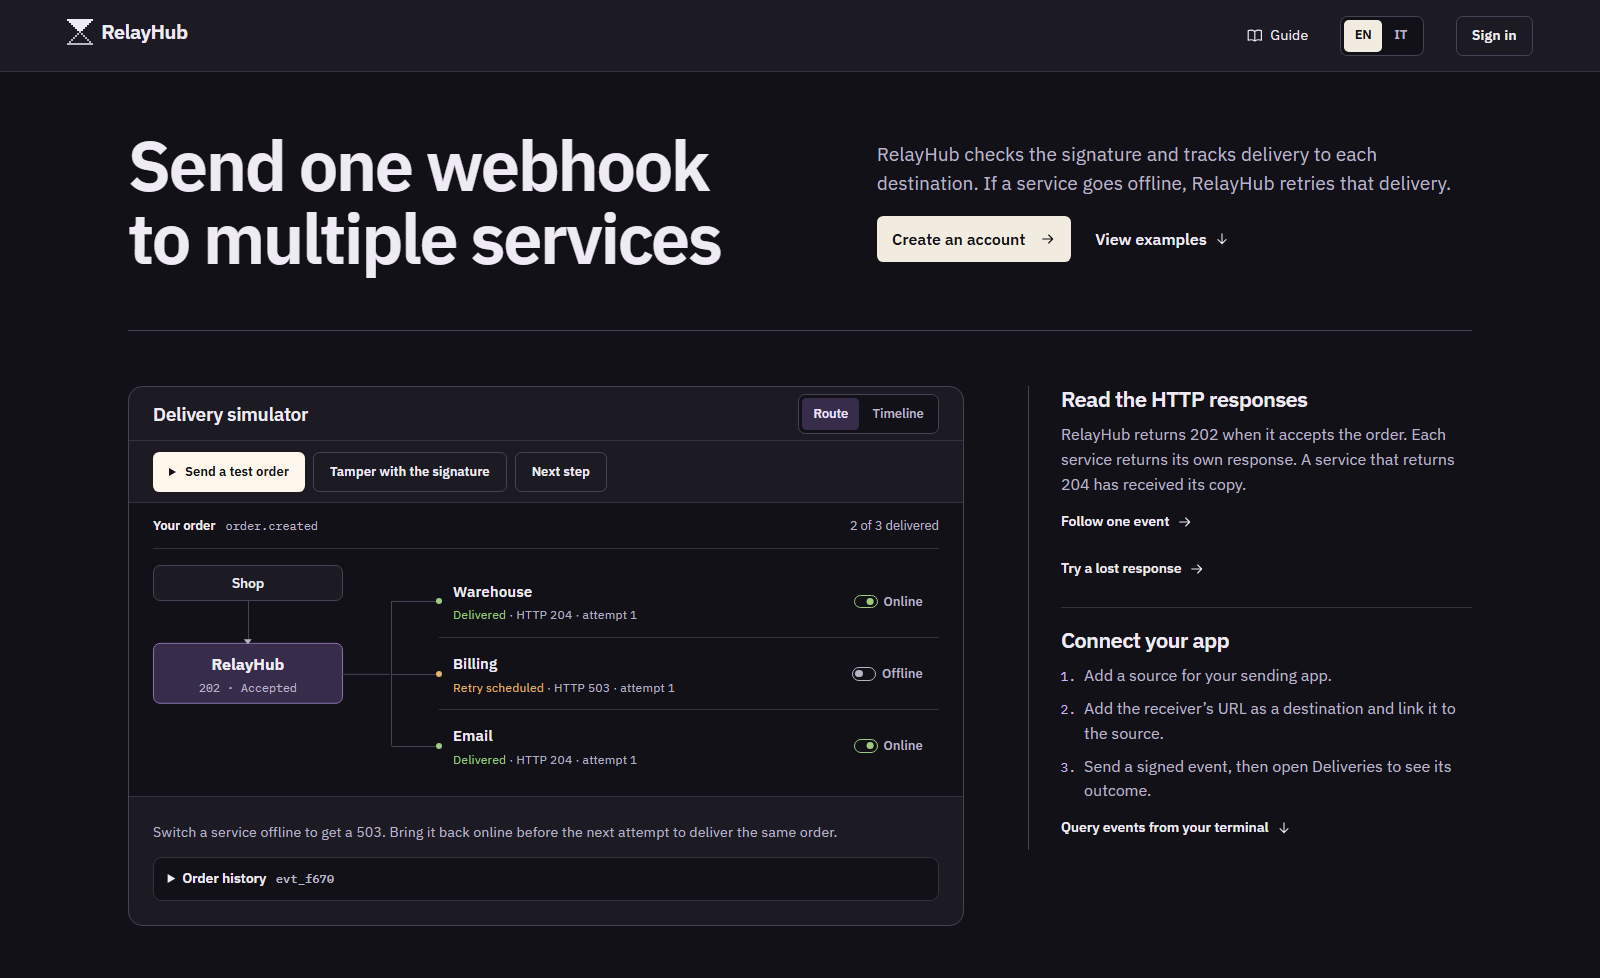
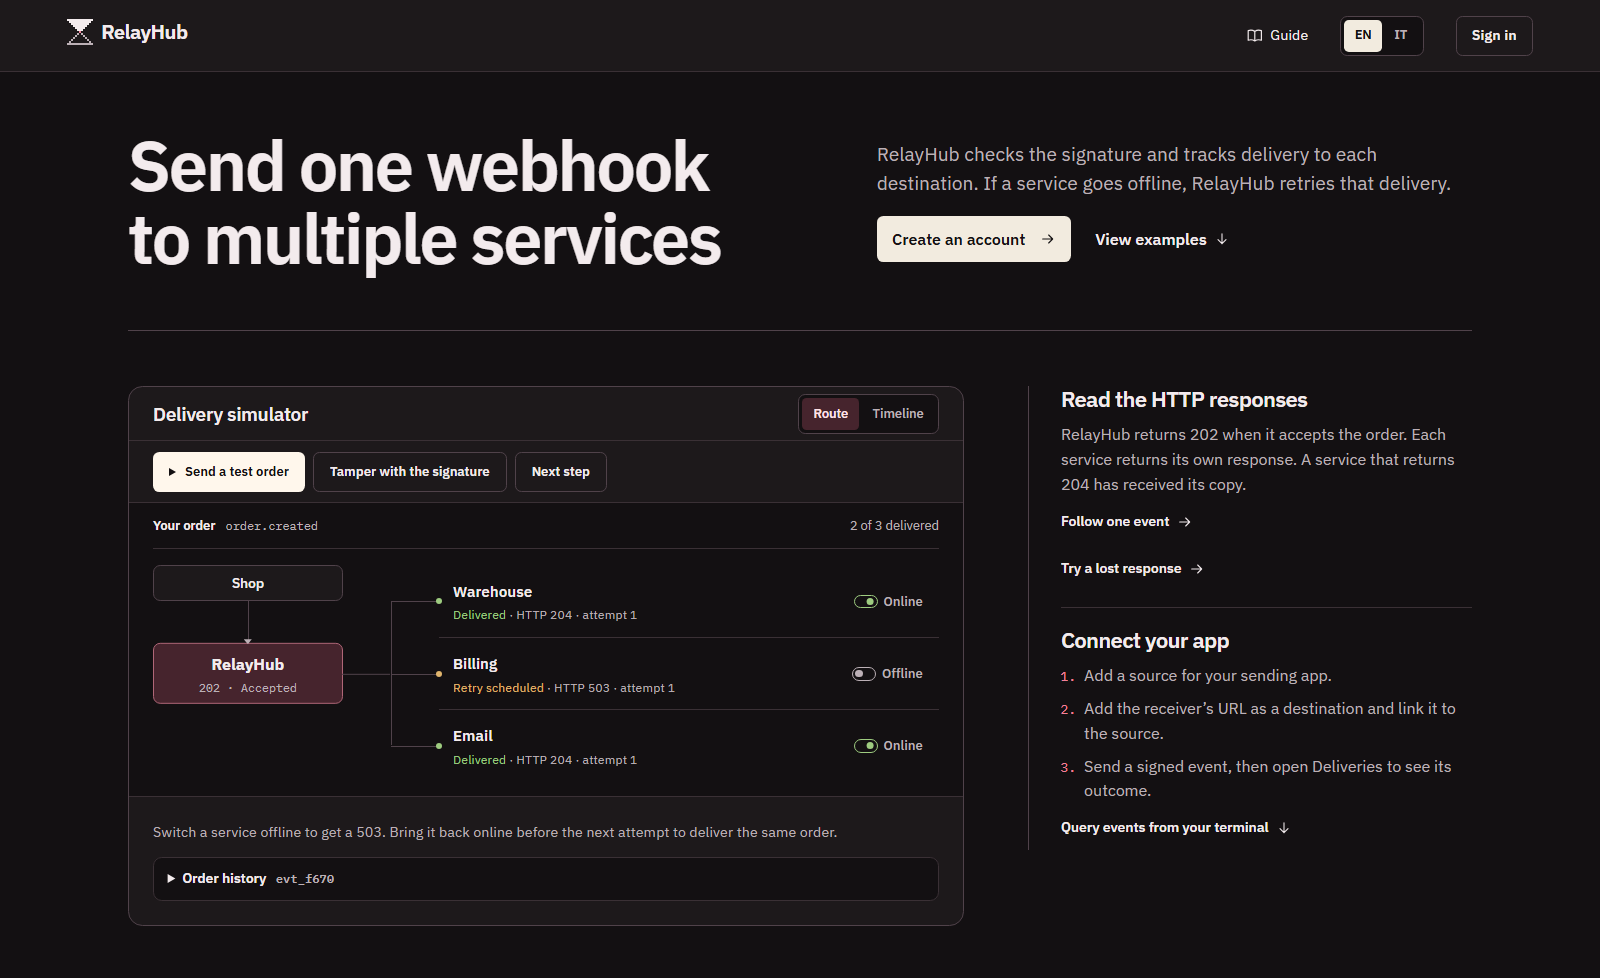
Switch RelayHub accents to garnet

Changed region(s): [[0.0938, 0.6442, 0.2188, 0.7362], [0.5, 0.3988, 0.5625, 0.4601]]

diff --git a/apps/web/src/app/styles.css b/apps/web/src/app/styles.css
@@ -1,14 +1,14 @@
-/* Ink-toned graphite, ivory actions and a lavender signal for webhooks in transit. */
+/* Warm charcoal, ivory actions and a garnet signal for webhooks in transit. */
 :root {
   color-scheme: dark;
   --void: rgb(var(--void-rgb));
-  --void-1: #1c1a23;
-  --void-2: #24212d;
-  --void-3: #2f2c3a;
-  --rule: #35313f;
-  --rule-strong: #494358;
+  --void-1: #1d191b;
+  --void-2: #272124;
+  --void-3: #332a2f;
+  --rule: #3a3035;
+  --rule-strong: #50424a;
   --bone: rgb(var(--bone-rgb));
-  --dust: #bab4c6;
+  --dust: #bcb0b6;
   --photon: rgb(var(--photon-rgb));
   --photon-ink: var(--void);
   --action: #f2ebdf;
@@ -17,17 +17,17 @@
   --delivered: rgb(var(--delivered-rgb));
   --retry: rgb(var(--retry-rgb));
   --failed: rgb(var(--failed-rgb));
-  --photon-surface: #372d4b;
-  --photon-border: #8a72af;
-  --photon-text: #eee2ff;
-  --control-border: #827a8e;
+  --photon-surface: #46242d;
+  --photon-border: #af6677;
+  --photon-text: #ffe1e7;
+  --control-border: #887984;
   /* Canvas reads these same channels for translucent traces. */
-  --void-rgb: 18 17 23;
-  --bone-rgb: 239 235 244;
-  --photon-rgb: 202 180 250;
+  --void-rgb: 19 16 18;
+  --bone-rgb: 243 235 237;
+  --photon-rgb: 242 128 153;
   --delivered-rgb: 158 204 128;
   --retry-rgb: 224 181 109;
-  --failed-rgb: 247 139 130;
+  --failed-rgb: 255 153 117;
   --font-sans: "IBM Plex Sans Variable", system-ui, sans-serif;
   --font-mono: "IBM Plex Mono", ui-monospace, "Cascadia Mono", monospace;
   --ease-out: cubic-bezier(0.16, 1, 0.3, 1);

diff --git a/apps/web/src/app/layout.tsx b/apps/web/src/app/layout.tsx
@@ -20,7 +20,7 @@ export async function generateMetadata(): Promise<Metadata> {
 }
 
 export const viewport: Viewport = {
-  themeColor: "#121117",
+  themeColor: "#131012",
   colorScheme: "dark",
 };
 
